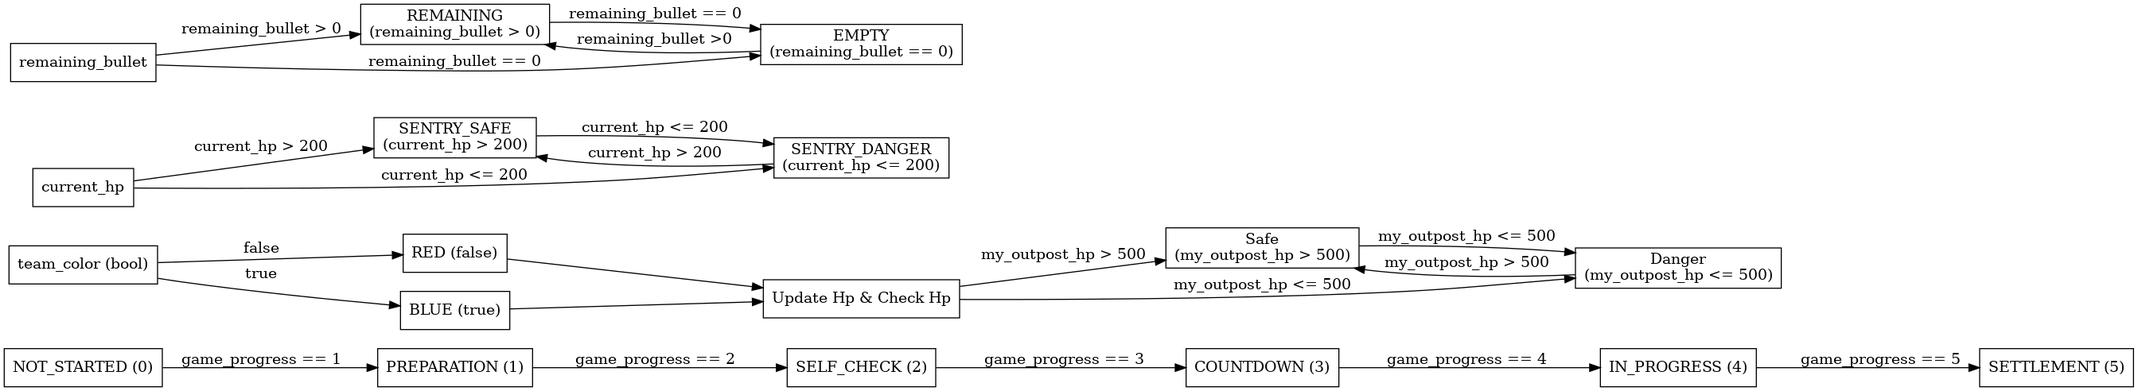
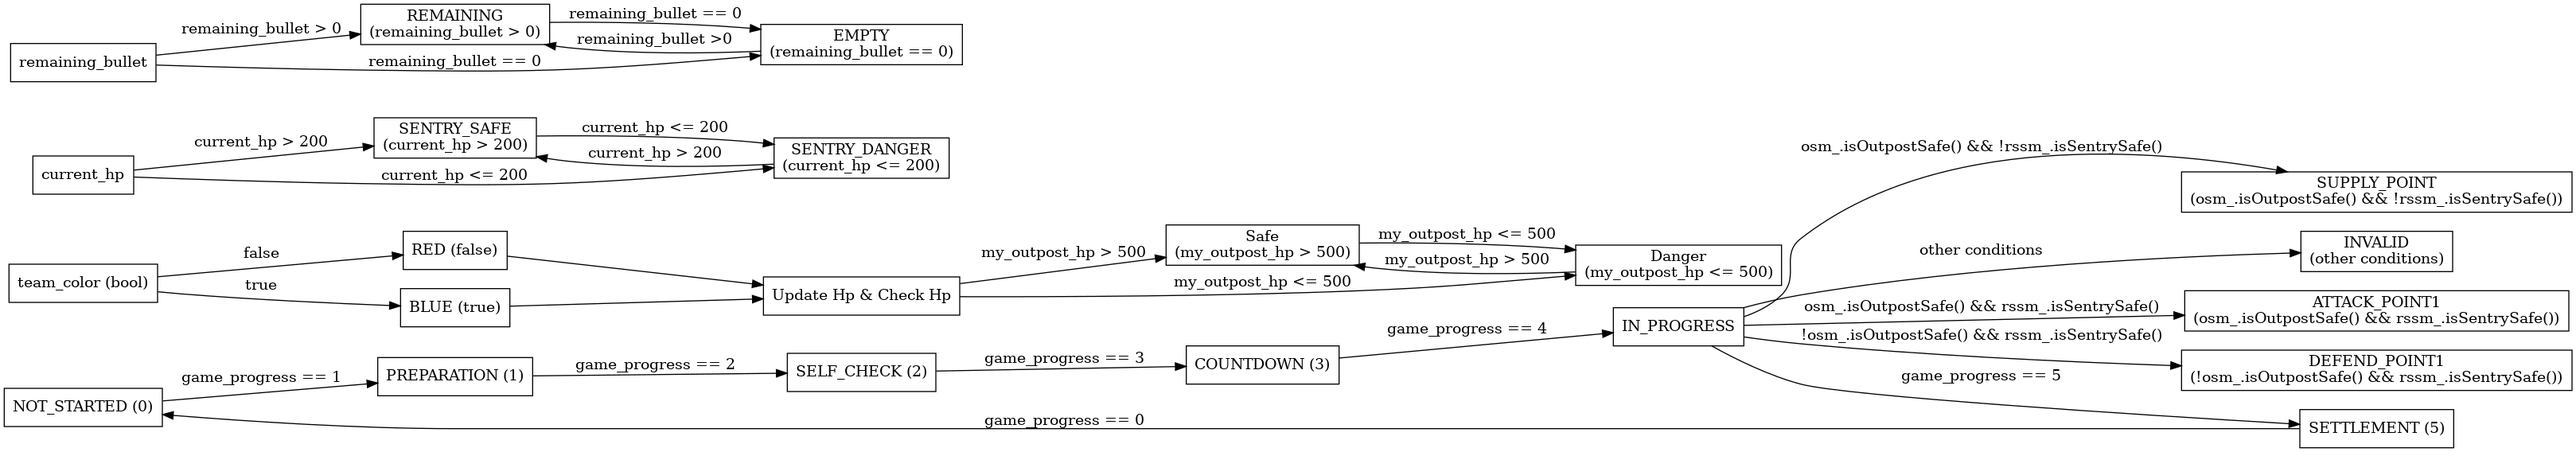
解决DecisionStateMachine状态无法进入的bug

diff --git a/rm_sentry_FSM/src/rm_sentry_FSM.cpp b/rm_sentry_FSM/src/rm_sentry_FSM.cpp
@@ -1,6 +1,9 @@
 #include <iostream>
 
 #include "rclcpp/rclcpp.hpp"
+#include "nav2_msgs/action/navigate_to_pose.hpp"
+#include "rclcpp_action/rclcpp_action.hpp"
+#include "geometry_msgs/msg/pose_stamped.hpp"
 
 #include "rm_decision_interfaces/msg/cv_decision.hpp"  // 自定义数据类型
 
@@ -72,7 +75,6 @@ public:
         }
     }
 
-private:
     State currentState;  // 当前状态
 };
 
@@ -123,7 +125,6 @@ public:
         return current_hp_state == OUTPOST_SAFE;
     }
 
-private:
     Color color;  // 己方颜色
     int my_outpost_hp;  // 己方前哨站血量
     HpState current_hp_state;  // 当前血量状态
@@ -151,7 +152,7 @@ private:
     }
 };
 
-class RobotStatusStateMachine 
+class RobotStatusStateMachine  // 哨兵自身状态状态机
 {
 public:
     enum HpState
@@ -181,7 +182,6 @@ public:
         return current_hp_state == SENTRY_SAFE;
     }
 
-private:
     int current_hp;  // 哨兵当前生命值
     int remaining_bullet;  // 哨兵剩余发弹量
     HpState current_hp_state;  // 哨兵当前生命值状态
@@ -240,27 +240,35 @@ public:
         INVALID = 0,
         ATTACK_POINT1 = 1,
         DEFEND_POINT1 = 2,
+        SUPPLY_POINT = 3,
     };
 
-    DecisionStateMachine(GameStatusStateMachine& gsm, OutpostStateMachine& osm, RobotStatusStateMachine& rssm)
-        : gsm_(gsm), osm_(osm), rssm_(rssm) {}
+    DecisionStateMachine(GameStatusStateMachine& gsm, OutpostStateMachine& osm, RobotStatusStateMachine& rssm, rclcpp::Node::SharedPtr node)
+        : gsm_(gsm), osm_(osm), rssm_(rssm)
+    {
+    }
 
     DecisionState determineDecisionState() const
     {
-        std::cout << "Checking Decision State..." << std::endl;
-        std::cout << "Game State: " << gsm_.getCurrentState() << std::endl;
-        std::cout << "Outpost Safe: " << osm_.isOutpostSafe() << std::endl;
-        std::cout << "Sentry Safe: " << rssm_.isSentrySafe() << std::endl;
+        // std::cout << "GameStatusStateMachine Address:" << &gsm_ <<std::endl;
+        // std::cout << "OutpostStateMachine Address:" << &osm_ <<std::endl;
+        // std::cout << "RobotStatusStateMachine Address:" << &rssm_ <<std::endl;
 
         if (gsm_.getCurrentState() == GameStatusStateMachine::IN_PROGRESS &&
             osm_.isOutpostSafe() && rssm_.isSentrySafe())
         {
+            std::cout << "ATTACK_POINT1" << std::endl;
             return ATTACK_POINT1;
         }
         else if (gsm_.getCurrentState() == GameStatusStateMachine::IN_PROGRESS &&
             !osm_.isOutpostSafe() && rssm_.isSentrySafe())
         {
             return DEFEND_POINT1;
+        }
+        else if (gsm_.getCurrentState() == GameStatusStateMachine::IN_PROGRESS &&
+            osm_.isOutpostSafe() && !rssm_.isSentrySafe())
+        {
+            return SUPPLY_POINT;
         }
         else
         {
@@ -279,26 +287,30 @@ public:
                 break;
 
             case DEFEND_POINT1:
-                std::cout << "正在前往预设防守点位2" << std::endl;
+                std::cout << "正在前往预设防守点位1" << std::endl;
+                break;
+
+            case SUPPLY_POINT:
+                std::cout << "正在前往预设补给点位" << std::endl;
                 break;
 
             case INVALID:
-            default:
                 std::cout << "无效的决策状态" << std::endl;
                 break;
         }   
     }
 
-private:
     GameStatusStateMachine& gsm_;
     OutpostStateMachine& osm_;
     RobotStatusStateMachine& rssm_;
+
 };
+
 
 class GameStatusNode : public rclcpp::Node  // 比赛进程节点
 {
 public:
-    GameStatusNode() : Node("game_status_node")  // 订阅比赛进程
+    GameStatusNode(GameStatusStateMachine& gsm) : Node("game_status_node"), gsm_(gsm)  // 订阅比赛进程
     {
         game_status_subscription_ = this->create_subscription<rm_decision_interfaces::msg::CvDecision>(
             "/cv_decision", 10, std::bind(&GameStatusNode::gameStatusCallback, this, std::placeholders::_1)
@@ -310,9 +322,10 @@ public:
         return gsm_;
     }
 
-private:
     void gameStatusCallback(const rm_decision_interfaces::msg::CvDecision::SharedPtr msg)  // 比赛进程的回调函数
     {
+        // std::cout << "GameStatusStateMachine in callback Address:" << &gsm_ << std::endl;
+
         if (msg->game_progress < 0 || msg->game_progress > 5)
         {
             std::cout << "missing required input [game_status]..." << std::endl;
@@ -324,7 +337,7 @@ private:
     }
 
     rclcpp::Subscription<rm_decision_interfaces::msg::CvDecision>::SharedPtr game_status_subscription_;
-    rm_sentry_FSM::GameStatusStateMachine gsm_;
+    GameStatusStateMachine& gsm_;
 };
 
 class OutpostHpNode : public rclcpp::Node  // 前哨站状态节点
@@ -337,11 +350,16 @@ public:
         );
     }
 
-private:
+    OutpostStateMachine& getOutpostStateMachine()
+    {
+        return osm_;
+    }
+
     void OutpostHpCallback(const rm_decision_interfaces::msg::CvDecision::SharedPtr msg)  // 前哨站状态的回调函数
     {
-        std::cout << "Red Outpost HP:" << msg->red_outpost_hp << std::endl;
-        std::cout << "Blue Outpost HP:" << msg->blue_outpost_hp << std::endl;
+        // std::cout << "Red Outpost HP:" << msg->red_outpost_hp << std::endl;
+        // std::cout << "Blue Outpost HP:" << msg->blue_outpost_hp << std::endl;
+        // std::cout << "OutpostStateMachine in callback Address:" << &osm_ << std::endl;
 
         osm_.setColor(msg->team_color);
         osm_.updateHp(msg->red_outpost_hp, msg->blue_outpost_hp);
@@ -361,11 +379,16 @@ public:
         );
     }
 
-private:
+    RobotStatusStateMachine& getRobotStatusStateMachine()
+    {
+        return rssm_;
+    }
+
     void robotStatusCallback(const rm_decision_interfaces::msg::CvDecision::SharedPtr msg)
     {
-        std::cout << "current_hp:" << msg->current_hp << std::endl;
-        std::cout << "remaining_bullet:" << msg->remaining_bullet << std::endl;
+        // std::cout << "current_hp:" << msg->current_hp << std::endl;
+        // std::cout << "remaining_bullet:" << msg->remaining_bullet << std::endl;
+        // std::cout << "RobotStatusStateMachine in callback Address:" << &rssm_ << std::endl;
 
         rssm_.updateStatus(msg->current_hp, msg->remaining_bullet);
     }
@@ -385,10 +408,8 @@ public:
         );
     }
 
-private:
     void decisionCallback()
     {
-        std::cout << "Making decision..." << std::endl;
         dsm_.makeDecision();
     }
 
@@ -402,16 +423,22 @@ int main(int argc, char *argv[])
 {
     rclcpp::init(argc, argv);
     
+    // 创建 ROS 节点
+    auto node = rclcpp::Node::make_shared("decision_navigation_node");
+
     rm_sentry_FSM::GameStatusStateMachine game_status_sm;
-    auto game_status_node = std::make_shared<rm_sentry_FSM::GameStatusNode>();
+    // std::cout << "Main GameStatusStateMachine address:" << &game_status_sm << std::endl;
+    auto game_status_node = std::make_shared<rm_sentry_FSM::GameStatusNode>(game_status_sm);
 
     rm_sentry_FSM::OutpostStateMachine outpost_sm;
+    // std::cout << "Main OutpostStateMachine address:" << &outpost_sm << std::endl;
     auto robot_hp_node = std::make_shared<rm_sentry_FSM::OutpostHpNode>(outpost_sm);
 
     rm_sentry_FSM::RobotStatusStateMachine robot_status_sm;
+    // std::cout << "Main RobotStatusStateMachine address:" << &robot_status_sm << std::endl;
     auto robot_status_node = std::make_shared<rm_sentry_FSM::RobotStatusNode>(robot_status_sm);
 
-    rm_sentry_FSM::DecisionStateMachine decision_sm(game_status_sm, outpost_sm, robot_status_sm);
+    rm_sentry_FSM::DecisionStateMachine decision_sm(game_status_sm, outpost_sm, robot_status_sm, node);
     auto decision_node = std::make_shared<rm_sentry_FSM::DecisionNode>(decision_sm);
 
     rclcpp::executors::SingleThreadedExecutor executor;
